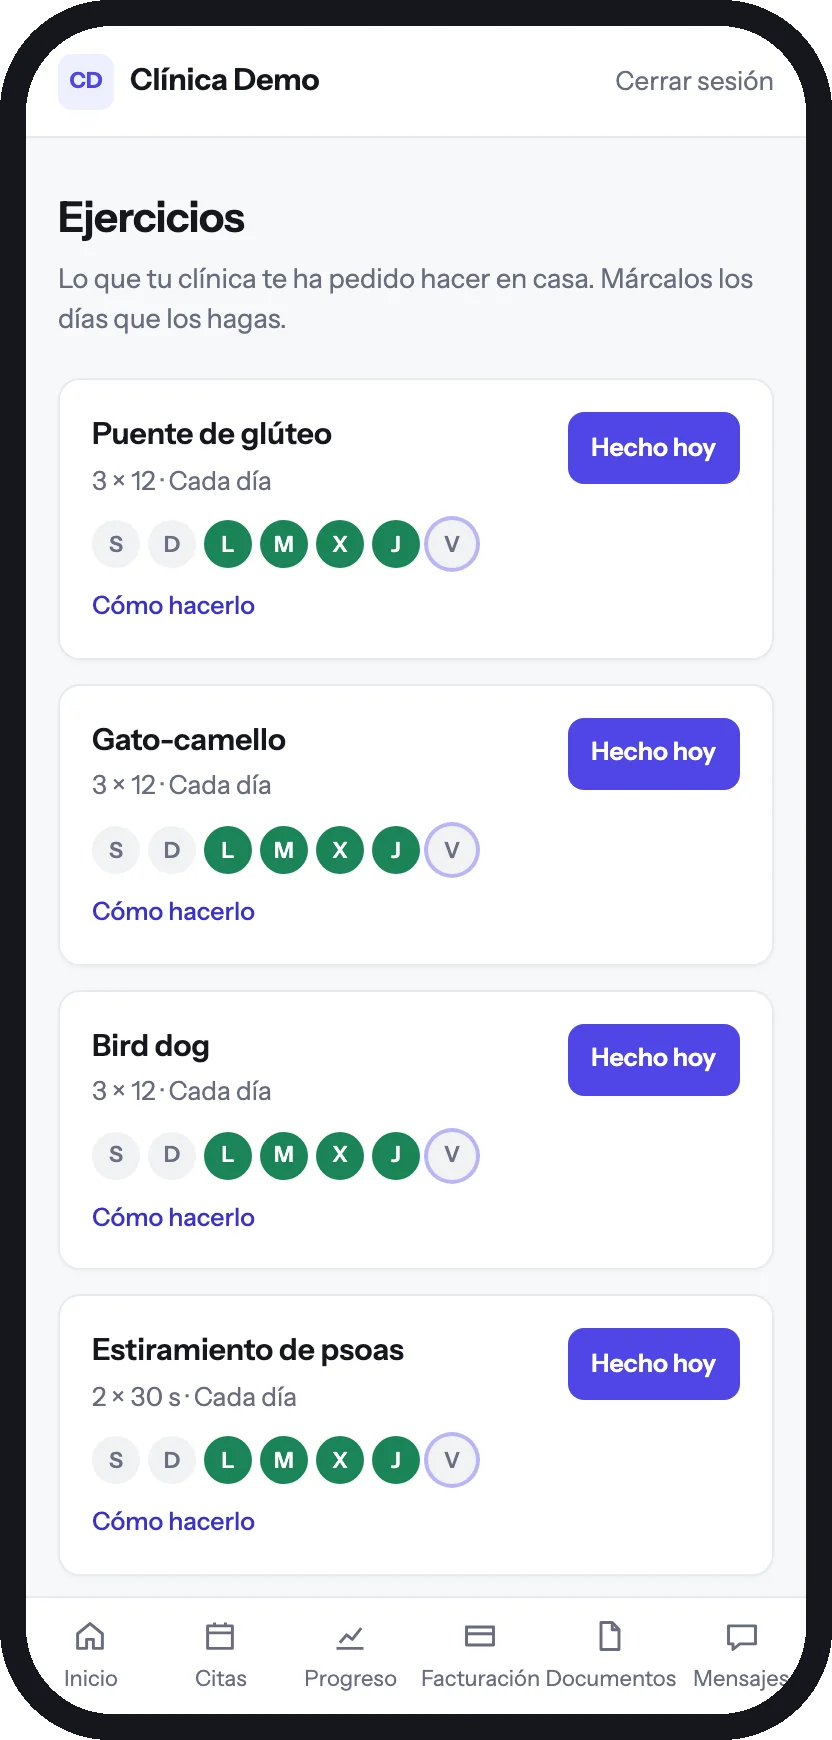
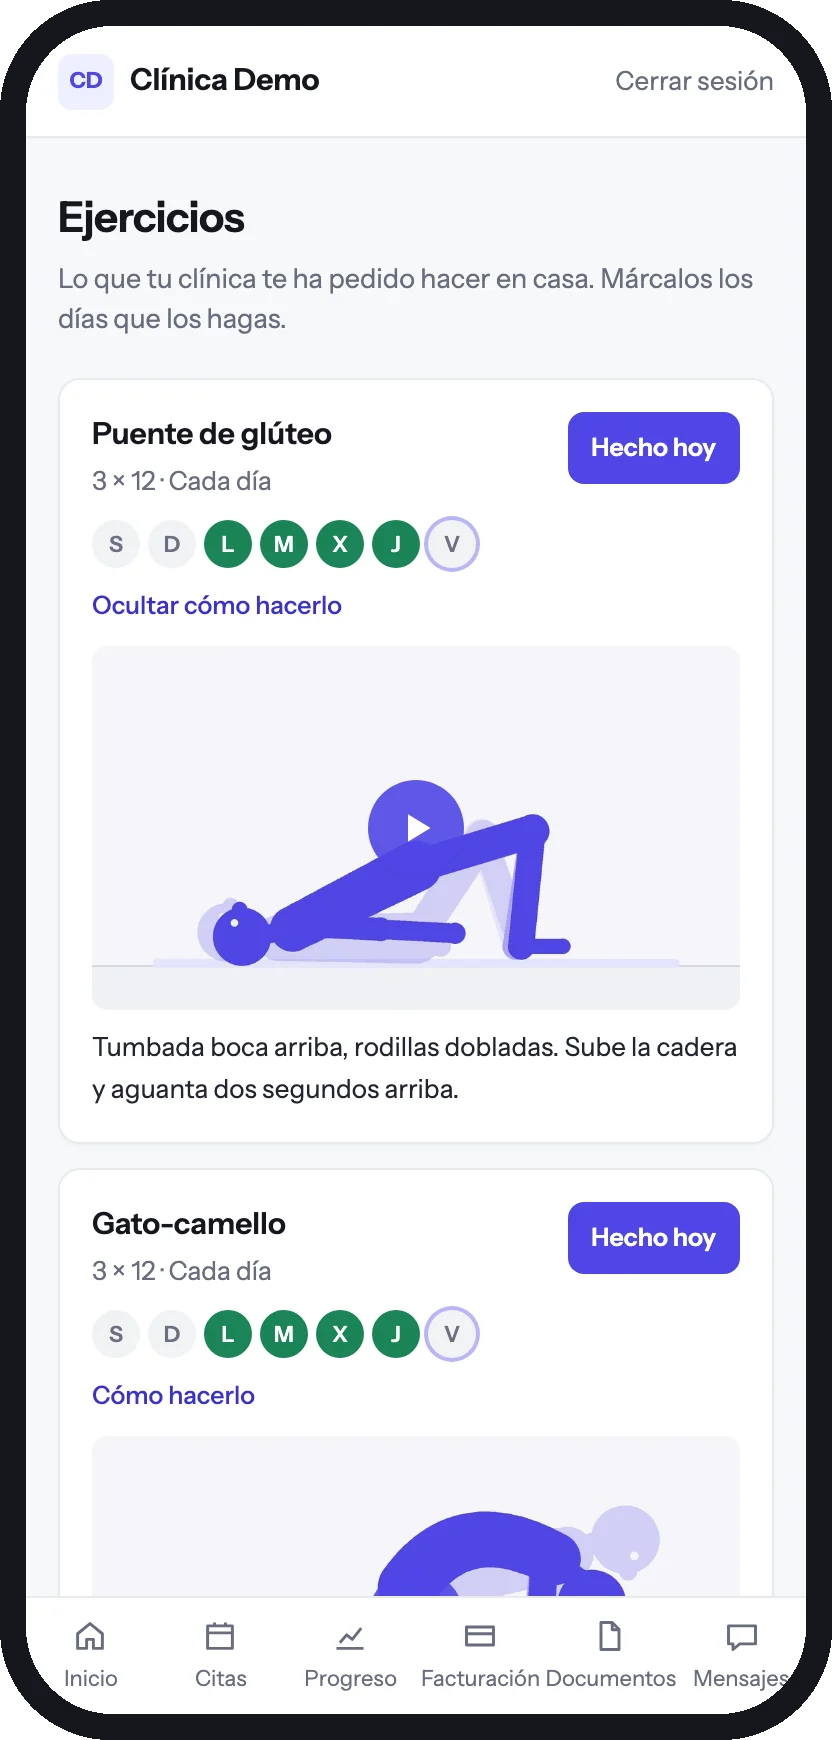
App del paciente: el vídeo del ejercicio y la postura antes y ahora
La pantalla de ejercicios enseña el vídeo de cómo hacer el puente de glúteo
(del catálogo de ejercicios de la app) y la de progreso baja hasta la
figura antes y ahora. Textos alternativos al día en es, en y fr.

diff --git a/app/i18n/site/fr.ts b/app/i18n/site/fr.ts
@@ -212,7 +212,7 @@ export const siteFr = {
     patientApp: {
       h2: 'L’app de vos patients',
       lead: 'Ils confirment ou déplacent leur rendez-vous, cochent leurs exercices à la maison, voient leur posture progresser et paient leurs factures. La même app sur iPhone et Android.',
-      alts: ['L’accueil de l’app patient avec le prochain rendez-vous confirmé et les séances restantes', 'Les rendez-vous du patient, le prochain à confirmer et les précédents', 'Les exercices à la maison, avec les jours faits cette semaine et le bouton Fait aujourd’hui', 'Les progrès de sa posture entre deux bilans, avec le poids que porte le cou', 'La facturation du patient avec son forfait, ce qui reste dû et ses paiements'],
+      alts: ['L’accueil de l’app patient avec le prochain rendez-vous confirmé et les séances restantes', 'Les rendez-vous du patient, le prochain à confirmer et les précédents', 'Les exercices à la maison, avec la vidéo du pont fessier et les jours faits cette semaine', 'Les progrès de sa posture, avec l’évolution et sa silhouette avant et maintenant', 'La facturation du patient avec son forfait, ce qui reste dû et ses paiements'],
       labels: ['Accueil', 'Rendez-vous', 'Facturation'],
     },
     teamApp: {

diff --git a/app/i18n/site/es.ts b/app/i18n/site/es.ts
@@ -217,7 +217,7 @@ export const siteEs = {
     patientApp: {
       h2: 'La app de tus pacientes',
       lead: 'Confirman o cambian la cita, marcan los ejercicios que hacen en casa, ven cómo mejora su postura y pagan sus facturas. Es la misma app para iPhone y Android.',
-      alts: ['La pantalla de inicio de la app del paciente con su próxima cita confirmada y sus sesiones restantes', 'Las citas del paciente, con la próxima por confirmar y las anteriores', 'Los ejercicios para casa, con los días hechos esta semana y el botón Hecho hoy', 'El progreso de su postura entre dos valoraciones, con el peso que sostiene el cuello', 'La facturación del paciente con su bono, lo pendiente y sus cargos'],
+      alts: ['La pantalla de inicio de la app del paciente con su próxima cita confirmada y sus sesiones restantes', 'Las citas del paciente, con la próxima por confirmar y las anteriores', 'Los ejercicios para casa, con el vídeo de cómo hacer el puente de glúteo y los días hechos esta semana', 'El progreso de su postura, con la evolución y su figura antes y ahora', 'La facturación del paciente con su bono, lo pendiente y sus cargos'],
       labels: ['Inicio', 'Citas', 'Facturación'],
     },
     teamApp: {

diff --git a/app/i18n/site/en.ts b/app/i18n/site/en.ts
@@ -212,7 +212,7 @@ export const siteEn = {
     patientApp: {
       h2: 'Your patients’ app',
       lead: 'Patients confirm or move their appointment, tick off their home exercises, see their posture improve and pay their invoices. The same app on iPhone and Android.',
-      alts: ['The patient app home screen with the next appointment confirmed and the sessions left', 'The patient’s appointments, the next one to confirm and the past ones', 'Home exercises, with the days done this week and a Done today button', 'Posture progress between two assessments, with the weight the neck carries', 'The patient’s billing with the package, what is due and the charges'],
+      alts: ['The patient app home screen with the next appointment confirmed and the sessions left', 'The patient’s appointments, the next one to confirm and the past ones', 'Home exercises, with the video showing how to do a glute bridge and the days done this week', 'Posture progress, with the trend and the figure before and now', 'The patient’s billing with the package, what is due and the charges'],
       labels: ['Home', 'Appointments', 'Billing'],
     },
     teamApp: {
